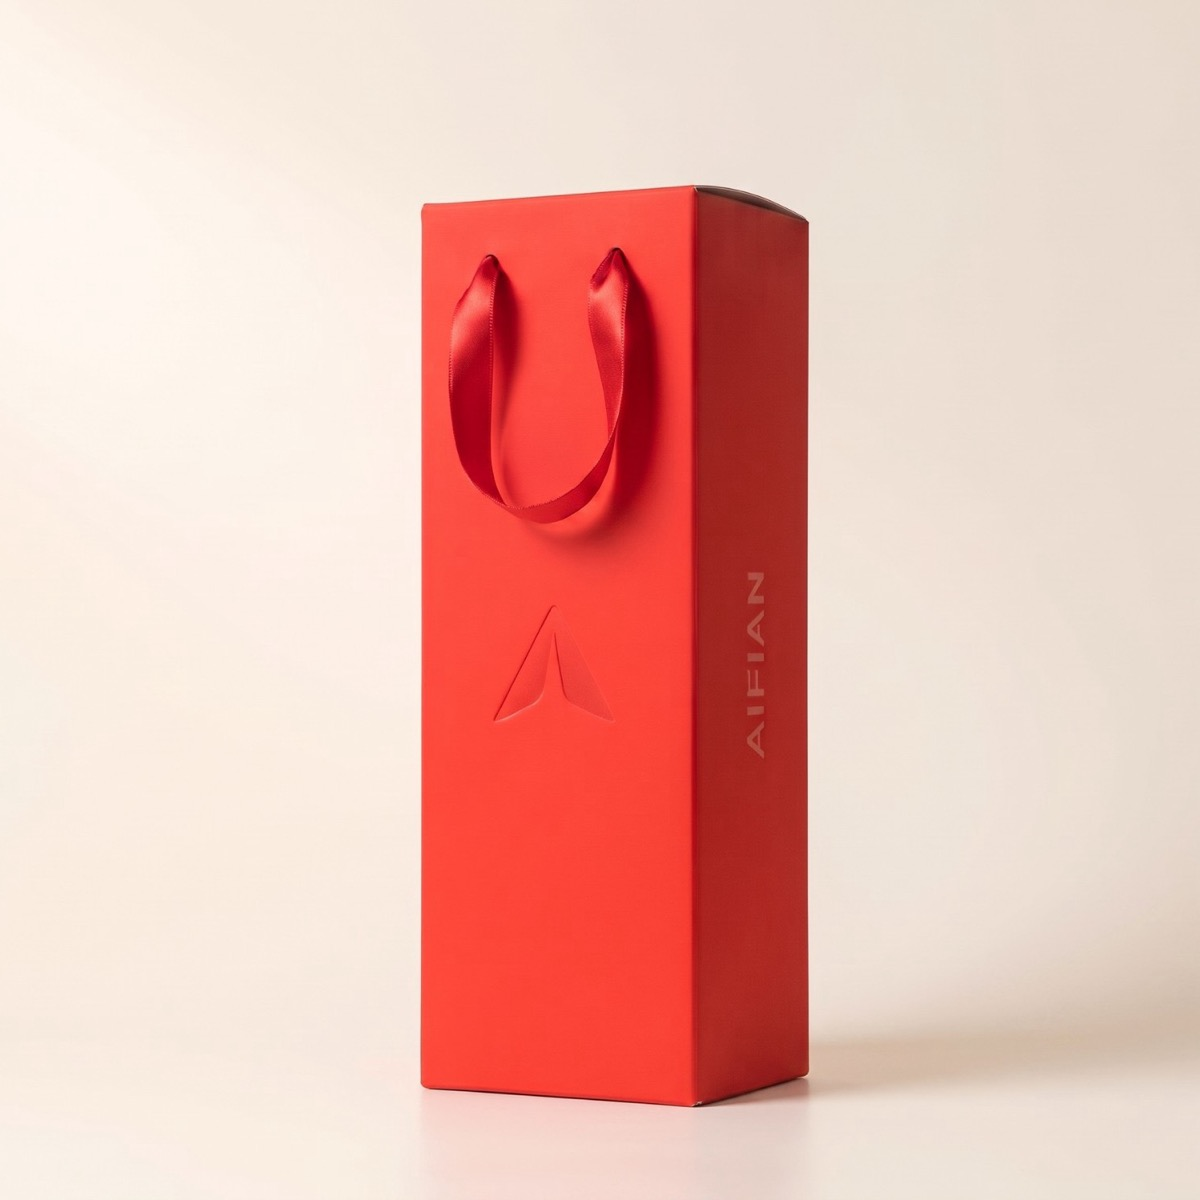
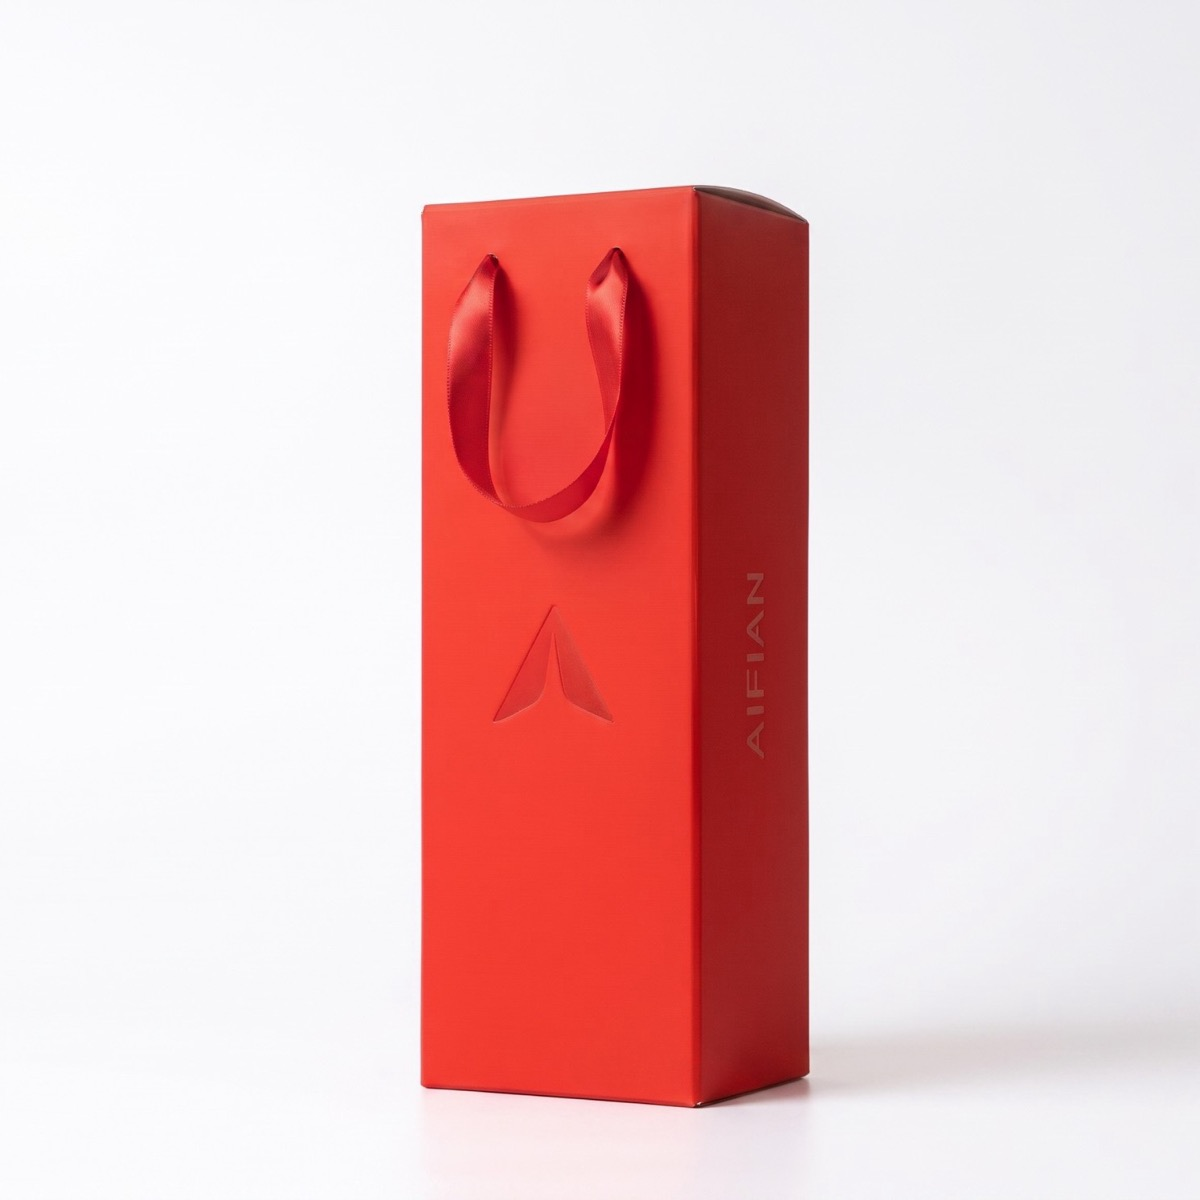
v14 移除帳號頁我的收藏入口，對話改指向我的酒窖；更新盲盒盒子照片
- 帳號頁拿掉「我的收藏」，酒窖入口只留在回饋頁「線上藏酒」右邊
- 首頁對話的說明與快捷按鈕改為「我的酒窖」
- 入門盒換白底紅紙盒、進階盒換新版木盒照片

diff --git a/app/v14/(tabs)/page.tsx b/app/v14/(tabs)/page.tsx
@@ -958,16 +958,16 @@ export default function V13HomePage() {
 
     if (text.includes("改了什麼")) {
       await pushBot({
-        text: "首頁換成我了。以前要自己逛，才知道哪裡還能賺回饋；現在我會直接告訴你今天還能賺什麼，想用回饋的時候也會幫你挑值得換的東西。你的回饋、收藏跟交易紀錄都沒有變，收藏在「帳號」裡的「我的收藏」。",
-        quickReplies: ["打開我的收藏", "今天還能多賺什麼？"],
+        text: "首頁換成我了。以前要自己逛，才知道哪裡還能賺回饋；現在我會直接告訴你今天還能賺什麼，想用回饋的時候也會幫你挑值得換的東西。你的回饋、藏酒跟交易紀錄都沒有變，藏酒在「回饋」頁「線上藏酒」右邊的「我的酒窖」。",
+        quickReplies: ["打開我的酒窖", "今天還能多賺什麼？"],
       });
       return;
     }
 
     if (text.includes("值多少")) {
       await pushBot({
-        text: `你的 ${WINE_HOLDINGS.length} 款酒總現值 $${WINE_HOLDINGS_TOTAL_VALUE.toLocaleString()}，比買入時漲了 ${WINE_HOLDINGS_TOTAL_CHANGE_PCT}%。想賣出或領回，都在「我的收藏」裡。`,
-        quickReplies: ["打開我的收藏"],
+        text: `你的 ${WINE_HOLDINGS.length} 款酒總現值 $${WINE_HOLDINGS_TOTAL_VALUE.toLocaleString()}，比買入時漲了 ${WINE_HOLDINGS_TOTAL_CHANGE_PCT}%。想賣出或領回，都在「我的酒窖」裡。`,
+        quickReplies: ["打開我的酒窖"],
       });
       return;
     }
@@ -1071,7 +1071,7 @@ export default function V13HomePage() {
       router.push("/v14/exchange");
       return;
     }
-    if (reply === "打開我的收藏") {
+    if (reply === "打開我的酒窖") {
       router.push("/v14/collection");
       return;
     }

diff --git a/app/v14/_lib/mock-data.ts b/app/v14/_lib/mock-data.ts
@@ -368,14 +368,7 @@ export const ACCOUNT_ROWS = [
     label: "帳號與安全性",
   },
   { key: "payment", icon: "/figma/icon-wallet.svg", label: "收款與付款" },
-  // Figma 這幾張靜態稿沒有畫出「我的收藏」的入口位置，這裡加在帳號頁
-  // 是我自己補的合理位置，不是照著哪個節點還原的
-  {
-    key: "collection",
-    icon: "/figma/icon-clipboard-check.svg",
-    label: "我的收藏",
-    href: "/v14/collection",
-  },
+  // 我的酒窖的入口在回饋頁「線上藏酒」右邊，帳號頁不放
   {
     key: "history",
     icon: "/figma/icon-clipboard-check.svg",

diff --git a/app/v14/(tabs)/account/page.tsx b/app/v14/(tabs)/account/page.tsx
@@ -227,13 +227,6 @@ export default function AccountPage() {
           />
           <Row icon={img("/figma/icon-wallet.svg")} title="收款與付款" />
           <Row icon={<ShoppingBagIcon className="size-6" />} title="訂單紀錄" />
-          {!company && (
-            <Row
-              icon={img("/figma/icon-clipboard-check.svg")}
-              title="我的收藏"
-              onClick={() => router.push("/v14/collection")}
-            />
-          )}
           <Row
             icon={img("/figma/icon-clipboard-check.svg")}
             title="歷史交易紀錄"
